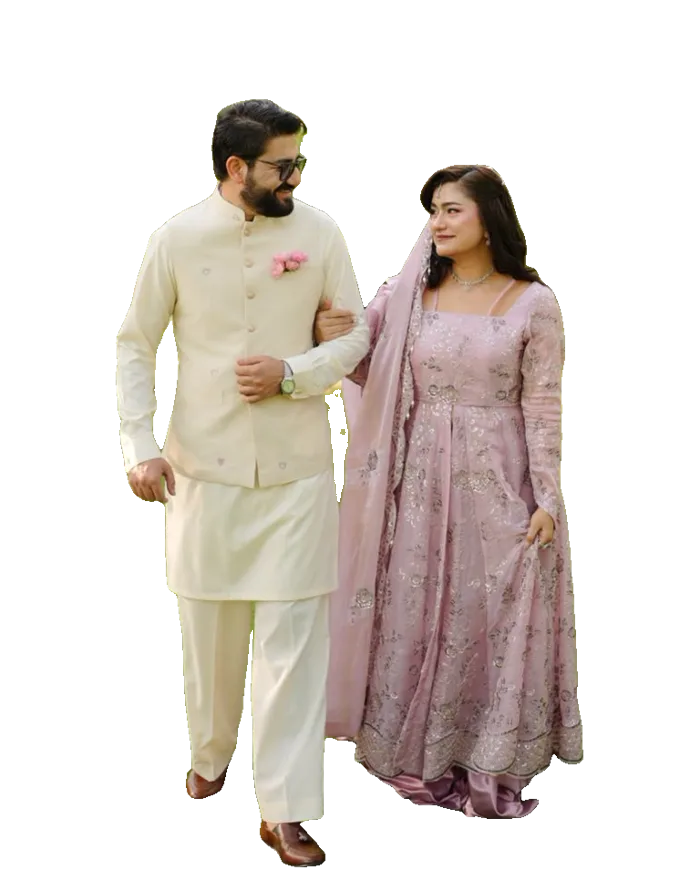
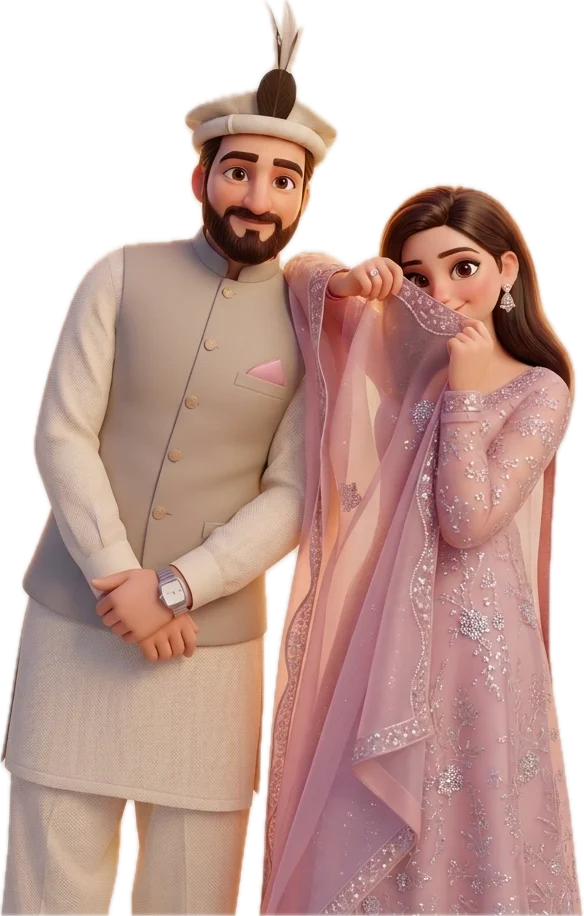
updated image

diff --git a/index.html b/index.html
@@ -348,7 +348,7 @@ html[lang="ur"] .cd span{font-size:13px;line-height:2}
       <svg class="rings" viewBox="0 0 236 300" preserveAspectRatio="none" aria-hidden="true"><circle cx="118" cy="150" r="100" fill="none" stroke="#8E78C6" stroke-width="1" opacity=".35"/><circle cx="118" cy="150" r="74" fill="none" stroke="#8E78C6" stroke-width="1" opacity=".22"/></svg>
       <picture>
         <source srcset="assets/couple.webp" type="image/webp">
-        <img src="assets/couple.png" alt="Tabeer and Nouman walking together" data-t-alt="photoAlt" width="700" height="890" decoding="async">
+        <img src="assets/couple.png" alt="Illustration of Tabeer and Nouman together" data-t-alt="photoAlt" width="584" height="916" decoding="async">
       </picture>
       <div class="glow"></div>
       <div class="door l" aria-hidden="true"><svg preserveAspectRatio="xMidYMid slice"><defs><pattern id="latL" width="22" height="22" patternUnits="userSpaceOnUse"><path d="M11 1 L21 11 L11 21 L1 11 Z" fill="none" stroke="#8E78C6" stroke-width="1" opacity=".6"/><circle cx="11" cy="11" r="1.7" fill="#8E78C6" opacity=".75"/></pattern></defs><rect width="100%" height="100%" fill="url(#latL)"/></svg><span class="knob"></span></div>
@@ -450,7 +450,7 @@ const INVITE = {
 const S = {
   en: {
     skip: 'Skip to invitation', weddingOf: 'THE WEDDING OF', brideShort: 'Tabeer', groomShort: 'Nouman', amp: '&',
-    bride: 'Tabeer Abid', groom: 'Nouman Ali Arbab', photoAlt: 'Tabeer and Nouman walking together',
+    bride: 'Tabeer Abid', groom: 'Nouman Ali Arbab', photoAlt: 'Illustration of Tabeer and Nouman together',
     city: 'Islamabad, Pakistan', open: 'Open the invitation', scroll: 'Scroll', dear: 'Dear',
     together: 'Together with their families,', request: 'request the honour of your presence at their Baraat.',
     countdown: 'Until the Baraat', days: 'Days', hours: 'Hours', mins: 'Minutes',
